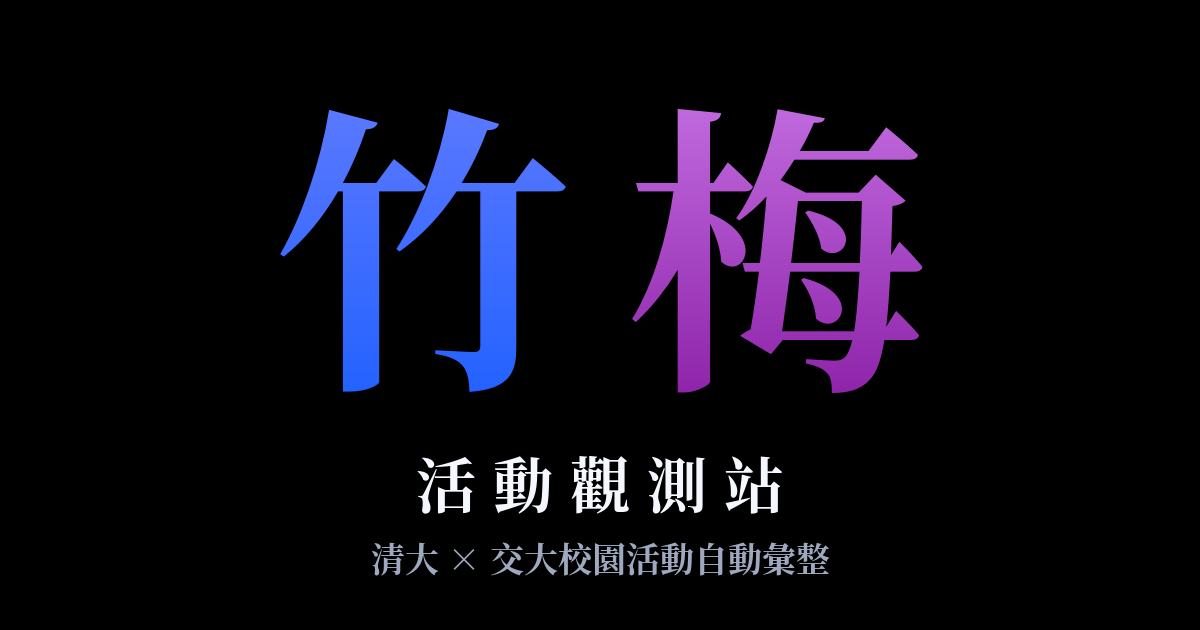
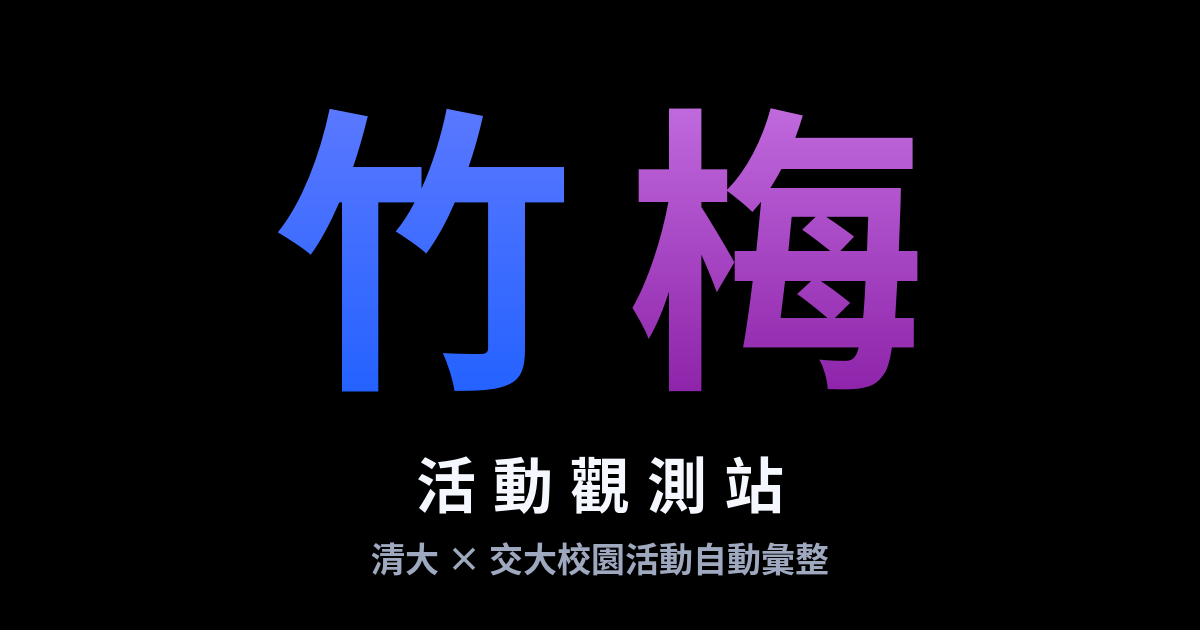
brand: 字型定案 Noto Sans TC Bold（700）
Black 太重、Serif 太細（使用者比較三候選後定案）。重產全部 logo/og、
woff2 子集、LINE 圖文選單（已上傳）、TG 頻道頭貼（已換）。

diff --git a/site/assets/site.css b/site/assets/site.css
@@ -41,14 +41,14 @@ a:hover { text-decoration: underline; }
 }
 .brand { display: flex; align-items: baseline; gap: 2px; padding: 4px 12px 20px; text-decoration: none; }
 .brand:hover { text-decoration: none; }
-/* 品牌字標：與 make_brand.py 產的 logo 同字型（Noto Serif TC Bold 子集）同漸層 */
+/* 品牌字標：與 make_brand.py 產的 logo 同字型（Noto Sans TC Bold 子集）同漸層 */
 @font-face {
   font-family: "ChumeiBrand";
   src: url("/assets/fonts/chumei-brand.woff2") format("woff2");
   font-weight: 700;
   font-display: swap;
 }
-.brand-chu, .brand-mei { font-family: "ChumeiBrand", "Noto Serif TC", serif; font-size: 1.6rem; font-weight: 700; line-height: 1; }
+.brand-chu, .brand-mei { font-family: "ChumeiBrand", "Noto Sans TC", sans-serif; font-size: 1.6rem; font-weight: 700; line-height: 1; }
 .brand-chu, .brand-mei {
   -webkit-background-clip: text;
   background-clip: text;
@@ -56,7 +56,7 @@ a:hover { text-decoration: underline; }
 }
 .brand-chu { background-image: linear-gradient(180deg, #5A78FF, #2462FF); }
 .brand-mei { background-image: linear-gradient(180deg, #C069DD, #8E24AA); }
-.brand-sub { margin-left: 8px; font-family: "ChumeiBrand", "Noto Serif TC", serif; font-size: 0.8rem; color: var(--color-text-muted); font-weight: 500; }
+.brand-sub { margin-left: 8px; font-family: "ChumeiBrand", "Noto Sans TC", sans-serif; font-size: 0.8rem; color: var(--color-text-muted); font-weight: 500; }
 .site-nav { display: flex; flex-direction: column; gap: 4px; flex: 1; min-height: 0; }
 .nav-item {
   display: flex; align-items: center; gap: 14px;

diff --git a/scripts/make_brand.py b/scripts/make_brand.py
@@ -1,12 +1,12 @@
 """竹梅品牌資產產生器 — 一支腳本產出全套 logo／og 圖，設計系統單一來源。
 
 設計系統（2026-08-22 定版）：
-  底色一律黑（網站深色 canvas #000）、字型一律 Noto Serif TC Bold、
+  底色一律黑（網站深色 canvas #000）、字型一律 Noto Sans TC Bold、
   竹＝交大藍漸層、梅＝清大紫漸層（同 site.css 的 chumei-bamboo/plum tokens）。
 
 字型不進 git（26MB）；缺檔時先下載：
-  curl -sL -o state/fonts/NotoSerifTC-Bold.otf \
-    https://github.com/notofonts/noto-cjk/raw/main/Serif/OTF/TraditionalChinese/NotoSerifCJKtc-Bold.otf
+  curl -sL -o state/fonts/NotoSansTC-Bold.otf \
+    https://github.com/notofonts/noto-cjk/raw/main/Sans/OTF/TraditionalChinese/NotoSansCJKtc-Bold.otf
 
 產出（site/assets/…）：
   brand/logo-mark-{16,32,48,64,256,1024}.png   竹梅雙字（favicon 等）
@@ -22,7 +22,7 @@ from PIL import Image, ImageDraw, ImageFont
 
 from chumei_lib import ROOT
 
-FONT_PATH = ROOT / "state" / "fonts" / "NotoSerifTC-Bold.otf"
+FONT_PATH = ROOT / "state" / "fonts" / "NotoSansTC-Bold.otf"
 BRAND_DIR = ROOT / "site" / "assets" / "brand"
 
 BG = "#000000"

diff --git a/scripts/setup_line_richmenu.py b/scripts/setup_line_richmenu.py
@@ -19,7 +19,7 @@ IMG_PATH = ROOT / "state" / "line_richmenu.png"
 
 W, H = 2500, 1686
 # 品牌統一字型（同 make_brand.py；缺檔時下載方式見該檔 docstring）
-FONT = str(ROOT / "state" / "fonts" / "NotoSerifTC-Bold.otf")
+FONT = str(ROOT / "state" / "fonts" / "NotoSansTC-Bold.otf")
 
 # 暗色設計系統（同 make_brand.py / 網站深色 tokens）：梅＝清大紫、竹＝交大藍
 INK = "#F5F7FF"
